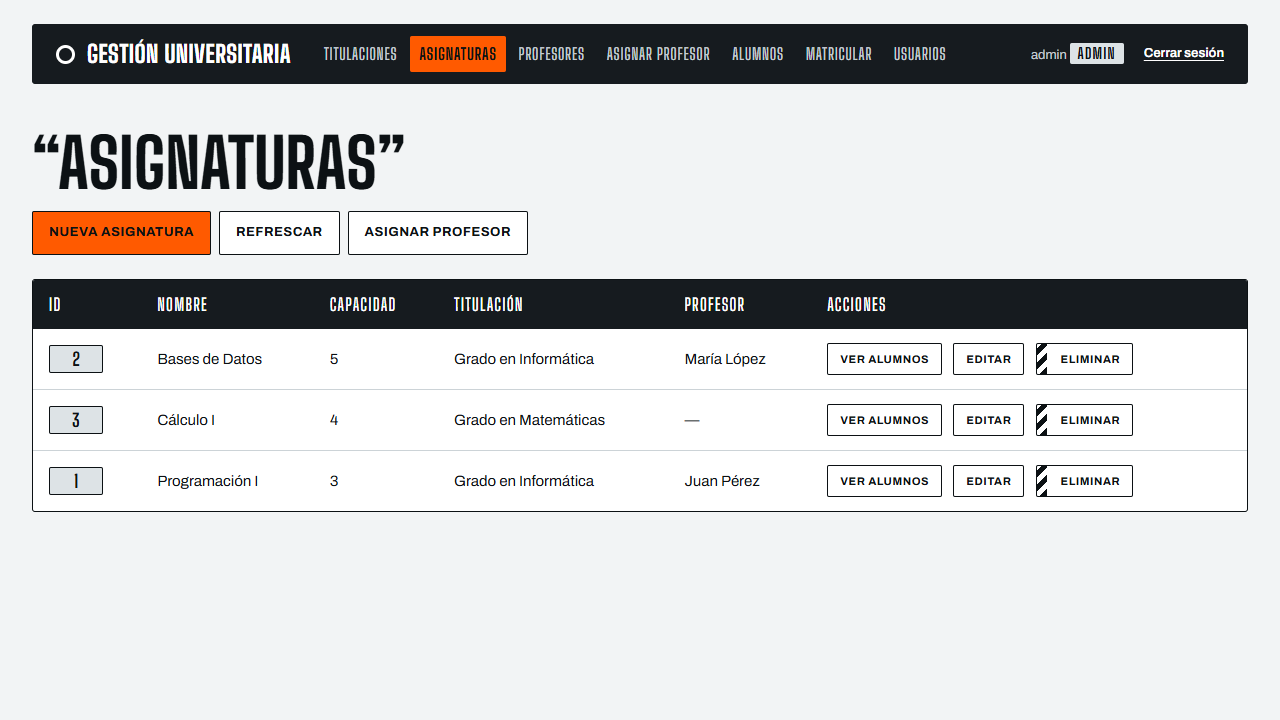
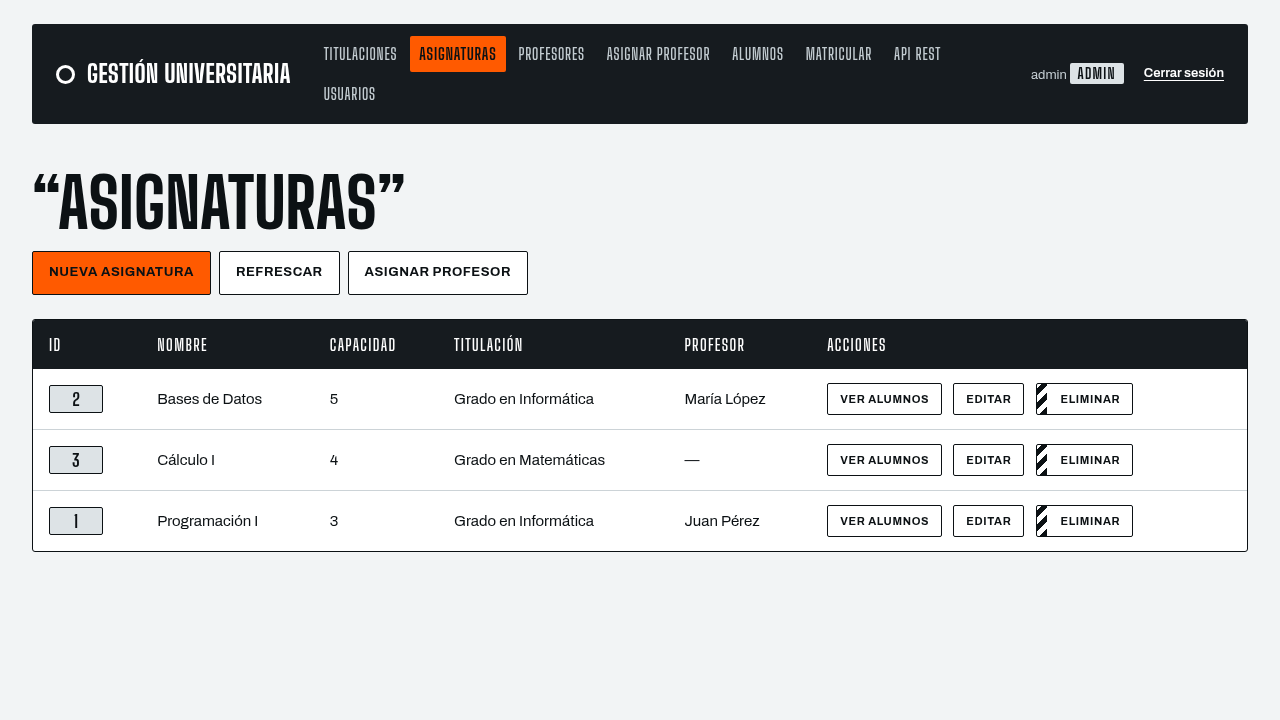
docs: revisión final de la documentación y capturas actualizadas
- README: capturas nuevas (el menú incluye ya «API REST») y una del cliente REST;
  el aviso de uso en producción se redacta como demostración de la arquitectura.
- docs/rest.md: el diagrama nombra MySQL / MariaDB, se precisa qué es sin estado
  (la identidad va en la sesión HTTP compartida con la interfaz web) y se aclara
  que alumnos, matrículas y usuarios no están en la API.
- docs/diseno.md: recoge el rótulo de formulario y el espaciado con el listado.
- style.css: separación entre un formulario y la tabla que le sigue en el
  cliente REST.

diff --git a/src/main/webapp/css/style.css b/src/main/webapp/css/style.css
@@ -823,6 +823,9 @@ form textarea:user-invalid ~ .campo-error { display: block; }
     text-transform: uppercase;
 }
 
+/* Formulario seguido de su listado en la misma pantalla (cliente REST) */
+form + .tabla-placas { margin-top: var(--e-5); }
+
 /* ---------- Botones al pie de un formulario ---------- */
 
 .acciones-form { display: flex; flex-wrap: wrap; gap: var(--e-2); margin-top: var(--e-5); }

diff --git a/docs/rest.md b/docs/rest.md
@@ -11,7 +11,7 @@ flowchart LR
     J --> K["Controller<br/>@Path, verbos HTTP"]
     K --> S["Service<br/>validación y reglas"]
     S --> D["DAO<br/>JDBC (los mismos del MVC)"]
-    D --> B[(MySQL)]
+    D --> B[(MySQL / MariaDB)]
     K -.->|cualquier error| E["ErrorMapper<br/>{resultado: mensaje}"]
     F -.->|sin sesión| U["401 JSON"]
 ```
@@ -31,7 +31,7 @@ Jersey se registra en `web.xml` para `/rest/*` y descubre las clases `@Path` del
 - **Recursos con URL:** `/rest/titulacion`, `/rest/profesor`, `/rest/asignatura`; un elemento concreto se identifica por su `id`.
 - **Verbos HTTP como CRUD:** `GET` lee, `POST` crea (sin `id`), `PUT` modifica (con `id`) y `DELETE` borra.
 - **Códigos de estado:** 200 correcto; 400 petición inválida; 401 sin sesión; 403 token CSRF ausente o inválido; 404 no existe; 405 verbo no permitido; 409 conflicto con una regla de negocio; 413 cuerpo demasiado grande; 415 no es `application/json`; 500 error interno.
-- **Sin estado en el servidor:** cada petición lleva su propia identificación (la cookie de sesión y, al escribir, el token CSRF); el servicio no guarda nada entre llamadas.
+- **Sin estado de negocio entre llamadas:** cada petición trae todo lo necesario para procesarla y los datos viven solo en la base de datos. La identidad del usuario va en la sesión HTTP que comparte con la interfaz web (la cookie y, al escribir, el token CSRF), para no mantener una segunda autenticación.
 
 ## Seguridad
 
@@ -40,7 +40,7 @@ Jersey se registra en `web.xml` para `/rest/*` y descubre las clases `@Path` del
 - **Sin sesión, 401.** La API responde `{"resultado": "Sesión no iniciada"}` en lugar de redirigir al login. Las páginas del cliente (`/rest-ui/*`) sí redirigen.
 - **Token CSRF en cabecera.** Toda petición que no sea `GET`, `HEAD` u `OPTIONS` debe llevar `X-CSRF-Token` con el token de la sesión; sin él, 403. El cliente lo lee de una etiqueta `<meta name="csrf-token">` que pinta el JSP.
 - **Usuario vigente en cada petición.** Como en el MVC, el filtro relee el usuario en la base de datos: si se borra la cuenta, la API deja de responderle al instante. Si la base de datos falla en ese momento, la API responde un 500 en JSON, no una página de error.
-- **Permisos.** Igual que en la interfaz clásica, cualquier usuario con sesión puede gestionar titulaciones, profesores y asignaturas; la gestión de usuarios (solo `admin`) no está expuesta por REST.
+- **Permisos.** Igual que en la interfaz clásica, cualquier usuario con sesión puede gestionar titulaciones, profesores y asignaturas; la gestión de usuarios (solo `admin`), los alumnos y las matrículas no están expuestos por REST.
 - **Cuerpo limitado y validado.** Máximo 64 KB, solo `application/json`, longitudes de texto según la base de datos (200 caracteres en los nombres y 10.000 en la descripción) y lectura estricta de tipos: un entero debe ser un entero de verdad (`"30"`, `2.9` o `4294967297` son un 400, no se convierten en silencio) y un texto debe ser un texto.
 - **Sin caché.** Las respuestas llevan `Cache-Control: no-store`.
 - **Salida segura en el cliente.** El texto que llega del servidor se inserta con `textContent`, nunca como HTML.

diff --git a/docs/diseno.md b/docs/diseno.md
@@ -299,6 +299,7 @@ Esquinas casi rectas: 2 px en controles, placas de ID, badges y botones; 3 px en
 - **Style:** blanco, borde de tinta 1,5 px, radio 2 px, 44 px de alto; rótulo de campo en Archivo 600, 13 px, frase normal, sobre el campo.
 - **Obligatorio:** todo label con un control `required` muestra «obligatorio» (Archivo 500, 13 px, texto suave) arriba a la derecha del rótulo, con `form label:has(:required)::after`; el label es `position: relative`. Solo CSS, sin marcado añadido; se suma al atributo required, que sigue siendo la fuente.
 - **Focus:** anillo de 3 px en naranja de foco (#d94a00), sin contorno.
+- **Rótulo de formulario (.form-titulo):** para un formulario que comparte pantalla con su listado (cliente REST): display 24 px en 700 y mayúsculas, sin las comillas de los `h1` y `h2`, que quedan para el título de la pantalla.
 - **Error:** el mensaje (.campo-error) está en el marcado y se muestra con :user-invalid tras la interacción; el campo gana una franja de 5 px en el borde inferior y el mensaje lleva un cuadrado con franja.
 
 ### Navigation
@@ -311,7 +312,7 @@ Enlace (`.saltar`) que lleva a `<main id="contenido" tabindex="-1">`. Fuera de p
 El panel de acceso (.auth-panel) es una etiqueta de almacén: cabecera nailon con el agujero perforado a la izquierda (círculo que deja ver el concreto, con un anillo tenue de material), y una brida negra (tinta, nunca naranja) que sube desde el agujero, hecha con ::before (cinta de 6x78 px) y ::after (cabeza de 14x20 px). Se balancea una sola vez al cargar (1300 ms, 350 ms de retardo, punto de giro en el agujero) y queda quieta; con prefers-reduced-motion no se anima. El cuerpo del panel lleva el formulario sin borde propio y el botón naranja a ancho completo con la flecha a la derecha.
 
 ### Tablas
-Cabecera nailon con rótulos de la display en blanco, filas blancas con línea suave, hover fila-hover, cifras tabulares, celda vacía con raya (—). Estado vacío: título entre comillas, texto suave y acción naranja. Las tablas .tabla-placas llevan role=table, row, columnheader y cell; en móvil la cabecera queda oculta a la vista pero presente para lectores de pantalla (ver Layout).
+Cabecera nailon con rótulos de la display en blanco, filas blancas con línea suave, hover fila-hover, cifras tabulares, celda vacía con raya (—). Estado vacío: título entre comillas, texto suave y acción naranja. Si un formulario precede a la tabla (`form + .tabla-placas`), se separan 24 px. Las tablas .tabla-placas llevan role=table, row, columnheader y cell; en móvil la cabecera queda oculta a la vista pero presente para lectores de pantalla (ver Layout).
 
 ### Acciones de fila con nombre accesible
 Cada enlace o botón de fila (editar, eliminar, ver alumnos, desmatricular) lleva aria-label con el registro afectado: «Editar asignatura Bases de Datos», «Eliminar titulación X», «Ver alumnos de X», «Desmatricular a X de Y». El aria-label empieza siempre por el texto visible del control (WCAG 2.5.3), de modo que los botones idénticos de una lista se distinguen sin cambiar lo que se ve.

diff --git a/README.md b/README.md
@@ -52,7 +52,7 @@ Requisitos: **JDK 17 o superior**, **Tomcat 11** y **MySQL o MariaDB** (por ejem
 
 **Acceso de ejemplo:** usuario `admin`, contraseña `admin`. Cámbiala en cuanto entres (*Usuarios → Editar*).
 
-> **Uso en producción:** este proyecto está pensado para aprender y demostrar la arquitectura. Antes de exponerlo, cambia las credenciales de ejemplo, configura una contraseña para el usuario de la base de datos y sirve la aplicación por HTTPS.
+> **Uso en producción:** este proyecto es una demostración de la arquitectura, no un producto listo para producción. Antes de exponerlo, cambia las credenciales de ejemplo, configura una contraseña para el usuario de la base de datos y sirve la aplicación por HTTPS.
 
 ## Pruebas
 
@@ -73,6 +73,8 @@ Además de la interfaz web, los datos se pueden gestionar por HTTP y JSON bajo `
 | Asignaturas | `/rest/asignatura` | lo anterior, más asignar o quitar el profesor |
 
 La API usa la misma sesión que la interfaz web. Las lecturas (`GET`) solo necesitan haber iniciado sesión; `POST`, `PUT` y `DELETE` envían además el token CSRF en la cabecera `X-CSRF-Token`. Las respuestas de error son siempre `{"resultado": "mensaje"}` con su código HTTP. Hay pantallas de ejemplo en el menú *API REST*, y los endpoints completos están en [docs/rest.md](docs/rest.md).
+
+![Cliente REST de titulaciones](docs/img/api-rest.png)
 
 ## Seguridad
 
